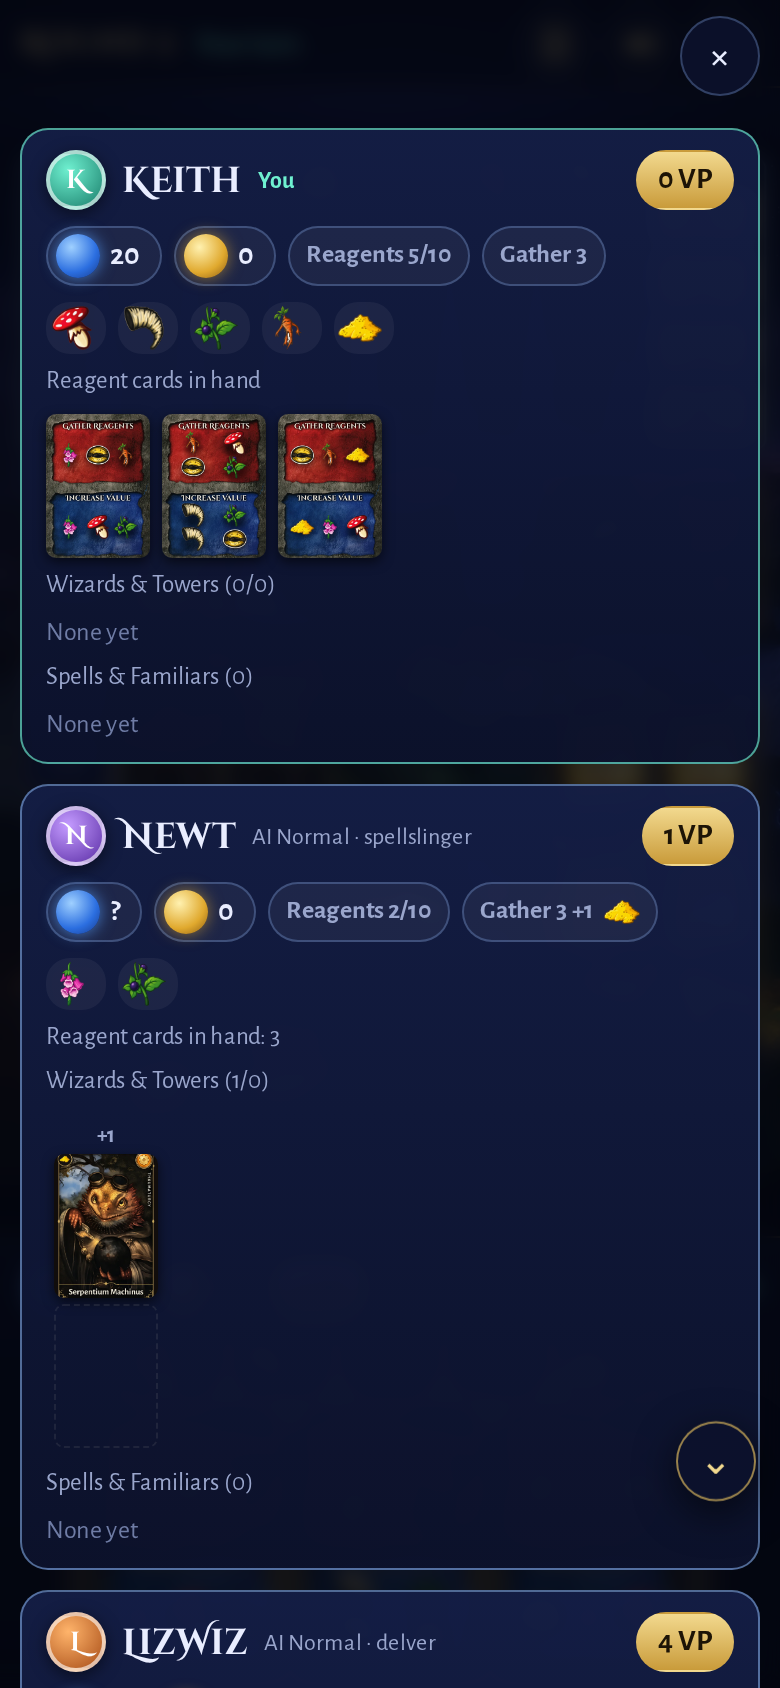
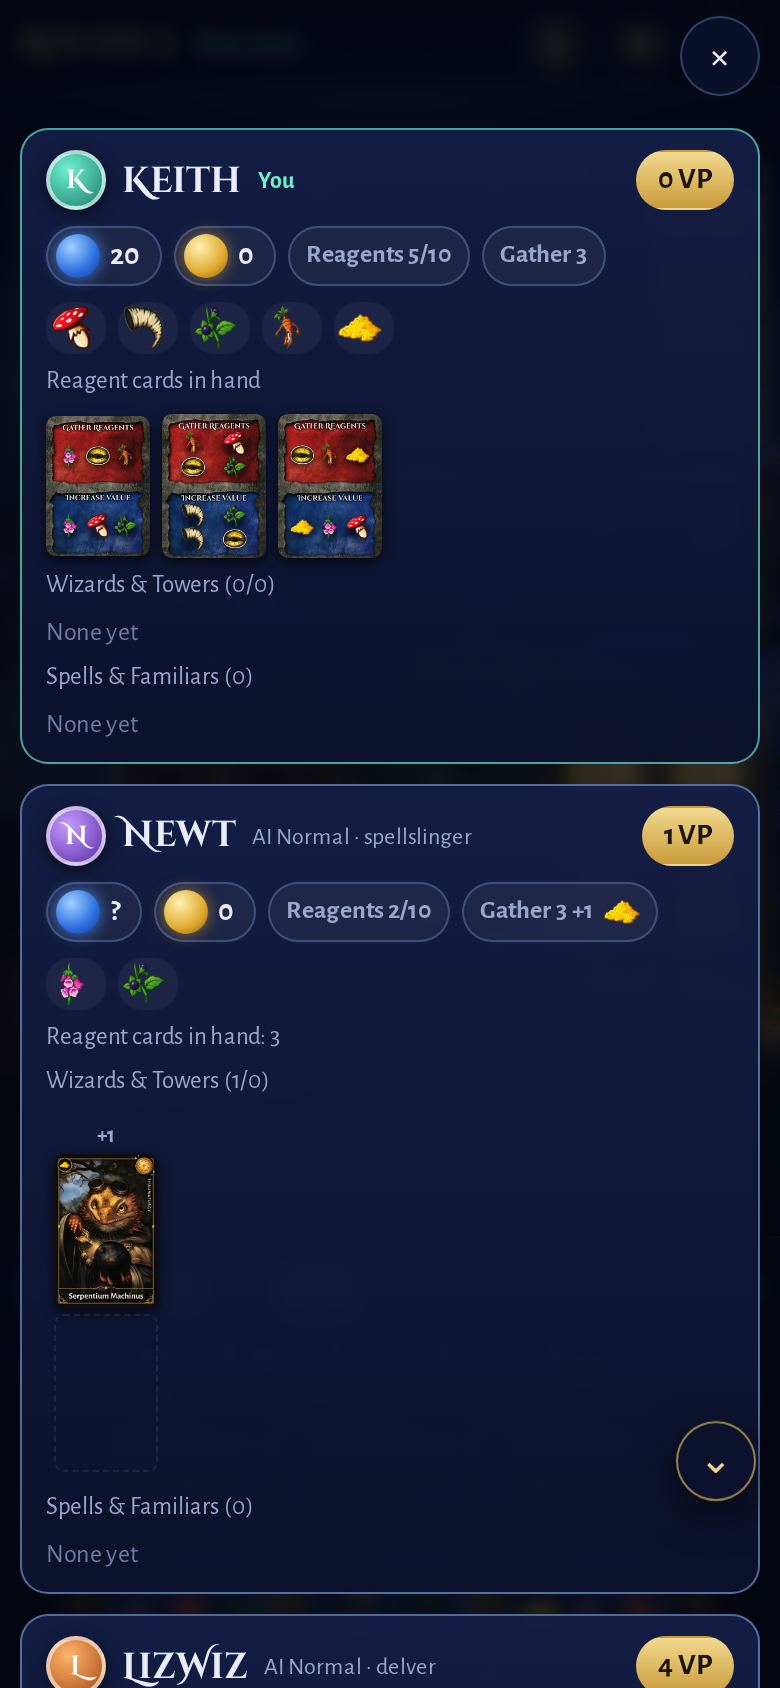
Mats: show each card at its own proportions (object-fit: cover cropped titles and borders, e.g. Obelisk of Puzzles); test fails on any crop, overlap or clip

diff --git a/tests/e2e/phone.spec.js b/tests/e2e/phone.spec.js
@@ -68,40 +68,84 @@ test('card detail: the whole card is visible under the status bar; close button 
   expect(btn.bottom, 'action button clears the bottom bar').toBeLessThanOrEqual(L.bottom);
 });
 
-test('mats overlay scrolls as a whole: every card, including the last mat, clears the browser bar', async ({ page }) => {
+test('mats: no card is cropped, overlapped or clipped; every card scrolls fully clear of the status bar and Safari bar', async ({ page }) => {
+  // Keith's playtest mat: Obelisk of Puzzles (the narrowest tower scan) under an empty wizard slot; Newt's wizard further down.
   await open(page, (s) => {
-    P(s, 'Keith').towers = ['assets/Tower_T1_Keep_of_Elixers.jpg'];
-    s.tow_list = s.tow_list.filter((t) => !t.includes('T1_Keep_of_Elixers')); s.tower_deck = s.tow_list.length;
+    P(s, 'Keith').towers = ['assets/Tower_T1_Obelisk_of_Puzzles.jpg'];
+    s.tow_list = s.tow_list.filter((t) => !t.includes('T1_Obelisk_of_Puzzles'));
+    if (s.tower_face?.includes('Obelisk_of_Puzzles')) s.tower_face = s.tow_list.shift();
+    s.tower_deck = s.tow_list.length;
   });
   const b = await page.getByTestId('board').boundingBox();
   await page.touchscreen.tap(b.x + b.width * 0.52, b.y + b.height * 0.486);
   const ov = page.getByTestId('mats');
   await expect(ov).toBeVisible();
   await page.waitForTimeout(500);
+  await ov.evaluate((el) => Promise.all([...el.querySelectorAll('.mcard img')].map((i) => i.decode().catch(() => {}))));
   const L = await limits(page);
-  const scrollable = await ov.evaluate((el) => el.scrollHeight > el.clientHeight);
-  expect(scrollable, 'three mats do not fit one phone screen: the overlay must scroll').toBe(true);
-  await expect(page.getByTestId('scroll-hint')).toBeVisible();
+  expect(await ov.evaluate((el) => el.scrollHeight > el.clientHeight), 'three mats do not fit one phone screen: the overlay must scroll').toBe(true);
+
+  // Every card image shows whole: its box has the card's own proportions (no object-fit crop of title or border).
+  const crops = await ov.evaluate((el) => [...el.querySelectorAll('.mcard img')].map((i) => {
+    const r = i.getBoundingClientRect();
+    return { src: i.getAttribute('src'), loaded: i.complete && i.naturalWidth > 0, box: r.height / r.width, art: i.naturalHeight / i.naturalWidth };
+  }));
+  expect(crops.length).toBeGreaterThanOrEqual(6);
+  for (const c of crops) {
+    expect(c.loaded, `${c.src} loaded`).toBe(true);
+    expect(Math.abs(c.box / c.art - 1), `${c.src} is shown whole (box ${c.box.toFixed(3)} vs art ${c.art.toFixed(3)})`).toBeLessThan(0.02);
+  }
+  const obelisk = crops.find((c) => c.src.includes('Obelisk_of_Puzzles'));
+  expect(obelisk, "Keith's Obelisk of Puzzles is on his mat").toBeTruthy();
+
+  // No card overlaps another card or the empty wizard slot above it.
+  const overlaps = await ov.evaluate((el) => {
+    const rs = [...el.querySelectorAll('.mcard')].map((c) => ({ r: c.getBoundingClientRect(), k: c.querySelector('img')?.getAttribute('src') || c.className }));
+    const out = [];
+    for (let i = 0; i < rs.length; i++) for (let j = i + 1; j < rs.length; j++) {
+      const a = rs[i].r, b = rs[j].r;
+      if (a.left < b.right - 0.5 && b.left < a.right - 0.5 && a.top < b.bottom - 0.5 && b.top < a.bottom - 0.5) out.push(`${rs[i].k} x ${rs[j].k}`);
+    }
+    return out;
+  });
+  expect(overlaps, overlaps.join('\n')).toEqual([]);
+
+  // Each card can be scrolled to sit fully between the status bar and the Safari bar, and no box inside the overlay clips it.
   const cards = ov.locator('.mcard');
   const n = await cards.count();
-  expect(n).toBeGreaterThanOrEqual(6);
   for (let i = 0; i < n; i++) {
-    await cards.nth(i).evaluate((c, top) => { const o = c.closest('.overlay'); o.scrollTop += c.getBoundingClientRect().top - top - 8; }, L.top);
-    const r = await box(cards.nth(i));
-    expect(r.top, `card ${i} top`).toBeGreaterThanOrEqual(L.top);
-    expect(r.bottom, `card ${i} bottom`).toBeLessThanOrEqual(L.bottom);
+    const r = await cards.nth(i).evaluate((c, top) => {
+      const o = c.closest('.overlay'); o.scrollTop += c.getBoundingClientRect().top - top - 8;
+      const cr = c.getBoundingClientRect(); let clipped = null;
+      for (let a = c.parentElement; a && a !== o; a = a.parentElement) {
+        const st = getComputedStyle(a);
+        if (st.overflow === 'visible' && st.overflowX === 'visible' && st.overflowY === 'visible') continue;
+        const ar = a.getBoundingClientRect();
+        if (cr.top < ar.top - 0.5 || cr.bottom > ar.bottom + 0.5 || cr.left < ar.left - 0.5 || cr.right > ar.right + 0.5) clipped = a.className;
+      }
+      return { top: cr.top, bottom: cr.bottom, clipped, k: c.querySelector('img')?.getAttribute('src') || c.className };
+    }, L.top);
+    expect(r.clipped, `${r.k} clipped by .${r.clipped}`).toBeNull();
+    expect(r.top, `${r.k} top clears the status bar`).toBeGreaterThanOrEqual(L.top);
+    expect(r.bottom, `${r.k} bottom clears the Safari bar`).toBeLessThanOrEqual(L.bottom);
   }
+
+  // From the top, the "more below" button scrolls the mats; at the end, the last mat clears the bar.
+  await scrollOverlay(page, 'mats', 'top');
+  await shot(page, '16-mats-obelisk-whole');
+  const y0 = await ov.evaluate((el) => el.scrollTop);
+  const hb = await page.getByTestId('scroll-hint').boundingBox();       // it bobs, so tap its centre directly
+  await page.touchscreen.tap(hb.x + hb.width / 2, hb.y + hb.height / 2);
+  await expect.poll(() => ov.evaluate((el) => el.scrollTop)).toBeGreaterThan(y0 + 100);
   await scrollOverlay(page, 'mats', 'bottom');
   const lastMat = await box(ov.locator('.mat').last());
   expect(lastMat.bottom, 'last mat clears the bottom bar').toBeLessThanOrEqual(L.bottom);
   await expect(page.getByTestId('scroll-hint')).toHaveClass(/off/);
+  const newtWizard = await page.getByTestId('mat-Newt').locator('.mcard').first().evaluate((c, top) => {
+    const o = c.closest('.overlay'); o.scrollTop += c.getBoundingClientRect().top - top - 8; return c.getBoundingClientRect().bottom;
+  }, L.top);
+  expect(newtWizard, "Newt's wizard scrolls fully above the Safari bar").toBeLessThanOrEqual(L.bottom);
   await shot(page, '11-mats-scrolled-to-end');
-  const newtWizard = await box(page.getByTestId('mat-Newt').locator('.mcard').first());
-  await scrollOverlay(page, 'mats', 'top');
-  await page.getByTestId('mat-Newt').locator('.mcard').first().evaluate((c) => c.scrollIntoView({ block: 'center' }));
-  const nw = await box(page.getByTestId('mat-Newt').locator('.mcard').first());
-  expect(nw.bottom).toBeLessThanOrEqual(L.bottom);
-  expect(newtWizard).toBeTruthy();
 });
 
 test('game end: scores stay reachable after dismissing, and Play again deals a fresh 3-player game', async ({ page }) => {

diff --git a/app/css/app.css b/app/css/app.css
@@ -204,8 +204,11 @@ img { -webkit-user-drag: none; user-select: none; }
 .mat-vp { margin-left: auto; }
 .mat-row { display: flex; flex-wrap: wrap; align-items: center; gap: 6px; margin-top: 8px; }
 .mat-label { width: 100%; font-size: 12.5px; color: var(--muted); margin-top: 6px; }
-.mcard { position: relative; width: 52px; height: 72px; border-radius: 5px; flex: none; }
-.mcard img { width: 100%; height: 100%; border-radius: 5px; object-fit: cover; box-shadow: 0 2px 6px rgba(0, 0, 0, .6); }
+/* Mat cards keep each card's own proportions (scans vary from 0.63 to 0.83 wide/high), so no title or border is cropped. */
+.mcard { position: relative; width: 52px; border-radius: 5px; flex: none; }
+.mcard img { display: block; width: 100%; height: auto; border-radius: 5px; box-shadow: 0 2px 6px rgba(0, 0, 0, .6); }
+.mcard.back, .mcard.empty { aspect-ratio: 666 / 1008; }
+.mcard.empty { opacity: .15; border: 1px dashed #888; }
 .mcard.uncast img { filter: saturate(.35) brightness(.7); }
 .mcard .badge { position: absolute; left: 2px; right: 2px; bottom: 2px; font-size: 9px; text-align: center; background: rgba(0, 0, 0, .7); border-radius: 3px; color: #ddd; }
 .mcard.back { background: linear-gradient(135deg, #42205e, #26113b); border: 1px solid rgba(214, 180, 90, .6); display: grid; place-items: center; font-family: var(--display); color: var(--gold-hi); font-size: 12px; }

diff --git a/app/js/ui.js b/app/js/ui.js
@@ -135,7 +135,7 @@ export function openMats(g) {
       p.you ? h('div', { class: 'mat-row' }, p.hand.map((k) => mini(g, k))) : null,
       h('div', { class: 'mat-label' }, `Wizards & Towers (${p.wizards.length}/${p.towers.length})`),
       h('div', { class: 'mat-row' }, pairs.length ? pairs.map(([w, t, m]) => h('div', { class: `pair ${m ? 'match' : ''}` },
-        h('span', { class: 'pts' }, m ? '+10' : (w && t ? '+5' : '+1')), w ? mini(g, w) : h('div', { class: 'mcard', style: { opacity: 0.15, border: '1px dashed #888' } }), t ? mini(g, t) : h('div', { class: 'mcard', style: { opacity: 0.15, border: '1px dashed #888' } })))
+        h('span', { class: 'pts' }, m ? '+10' : (w && t ? '+5' : '+1')), w ? mini(g, w) : h('div', { class: 'mcard empty' }), t ? mini(g, t) : h('div', { class: 'mcard empty' })))
         : h('span', { class: 'none' }, 'None yet')),
       h('div', { class: 'mat-label' }, `Spells & Familiars (${p.spells.length + p.familiars.length})`),
       h('div', { class: 'mat-row' }, (p.spells.length + p.familiars.length) ? [
